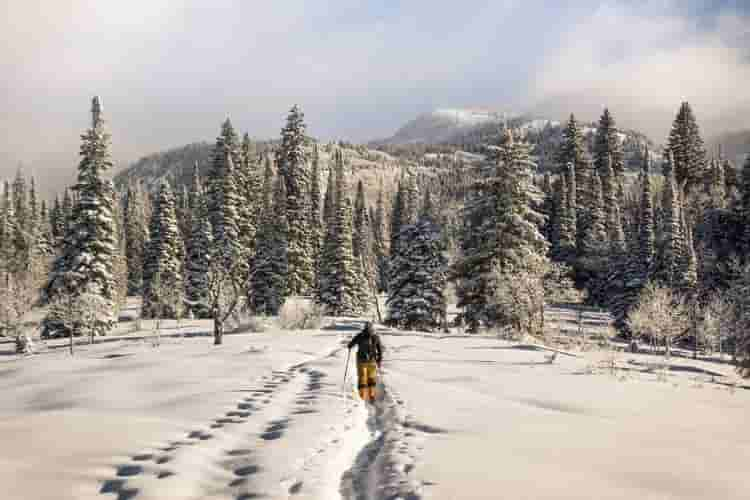
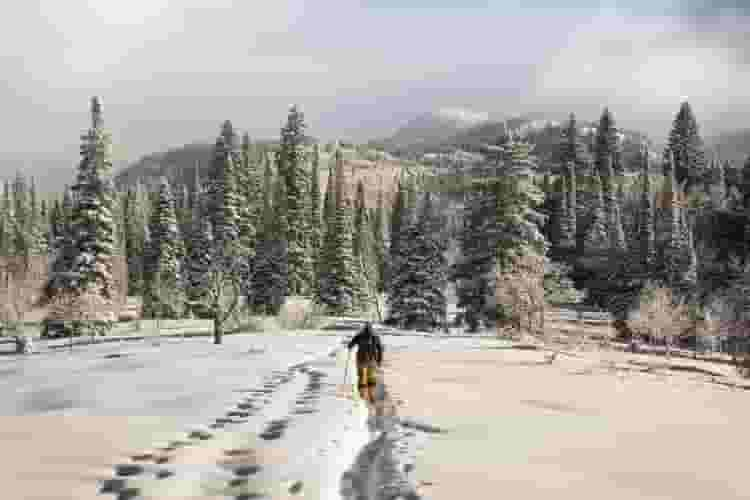
compress images

diff --git a/src/components/Categories/Fashion.js b/src/components/Categories/Fashion.js
@@ -31,7 +31,7 @@ class Fashion extends Component {
                                         {[1,0,2,1,3,0].map((i,x) => {
                                             return (
                                                 <div key={x}>
-                                                    <img height="350px" width="90%" src="http://oxfordfrc.com/wp-content/uploads/2017/01/Announcements.jpg" alt=""/>
+                                                    <img height="350px" width="90%" src="announcements.jpg" alt=""/>
                                                 </div>
                                             )
                                         })}
@@ -40,10 +40,10 @@ class Fashion extends Component {
                             </Grid.Column>
                             <Grid.Column width={6} className="right-banners">
                                 <Segment basic className="right-item">
-                                    <img height="170px" width="90%" src="http://oxfordfrc.com/wp-content/uploads/2017/01/Announcements.jpg" alt=""/>
+                                    <img height="170px" width="90%" src="announcements.jpg" alt=""/>
                                 </Segment>
                                 <Segment basic>
-                                    <img height="170px" width="90%" src="http://oxfordfrc.com/wp-content/uploads/2017/01/Announcements.jpg" alt=""/>
+                                    <img height="170px" width="90%" src="announcements.jpg" alt=""/>
                                 </Segment>
                             </Grid.Column>
                         </Grid.Row>

diff --git a/src/components/Categories/Travel.js b/src/components/Categories/Travel.js
@@ -31,7 +31,7 @@ class Travel extends Component {
                                         {[1,0,2,1,3,0].map((i,x) => {
                                             return (
                                                 <div key={x}>
-                                                    <img height="350px" width="90%" src="http://oxfordfrc.com/wp-content/uploads/2017/01/Announcements.jpg" alt=""/>
+                                                    <img height="350px" width="90%" src="announcements.jpg" alt=""/>
                                                 </div>
                                             )
                                         })}
@@ -40,10 +40,10 @@ class Travel extends Component {
                             </Grid.Column>
                             <Grid.Column width={6} className="right-banners">
                                 <Segment basic className="right-item">
-                                    <img height="170px" width="90%" src="http://oxfordfrc.com/wp-content/uploads/2017/01/Announcements.jpg" alt=""/>
+                                    <img height="170px" width="90%" src="announcements.jpg" alt=""/>
                                 </Segment>
                                 <Segment basic>
-                                    <img height="170px" width="90%" src="http://oxfordfrc.com/wp-content/uploads/2017/01/Announcements.jpg" alt=""/>
+                                    <img height="170px" width="90%" src="announcements.jpg" alt=""/>
                                 </Segment>
                             </Grid.Column>
                         </Grid.Row>

diff --git a/src/components/Categories/Food.js b/src/components/Categories/Food.js
@@ -31,7 +31,7 @@ class Food extends Component {
                                         {[1,0,2,1,3,0].map((i,x) => {
                                             return (
                                                 <div key={x}>
-                                                    <img height="350px" width="90%" src="http://oxfordfrc.com/wp-content/uploads/2017/01/Announcements.jpg" alt=""/>
+                                                    <img height="350px" width="90%" src="announcements.jpg" alt=""/>
                                                 </div>
                                             )
                                         })}
@@ -40,10 +40,10 @@ class Food extends Component {
                             </Grid.Column>
                             <Grid.Column width={6} className="right-banners">
                                 <Segment basic className="right-item">
-                                    <img height="170px" width="90%" src="http://oxfordfrc.com/wp-content/uploads/2017/01/Announcements.jpg" alt=""/>
+                                    <img height="170px" width="90%" src="announcements.jpg" alt=""/>
                                 </Segment>
                                 <Segment basic>
-                                    <img height="170px" width="90%" src="http://oxfordfrc.com/wp-content/uploads/2017/01/Announcements.jpg" alt=""/>
+                                    <img height="170px" width="90%" src="announcements.jpg" alt=""/>
                                 </Segment>
                             </Grid.Column>
                         </Grid.Row>

diff --git a/src/components/Categories/Tech.js b/src/components/Categories/Tech.js
@@ -31,7 +31,7 @@ class Tech extends Component {
                                         {[1,0,2,1,3,0].map((i,x) => {
                                             return (
                                                 <div key={x}>
-                                                    <img height="350px" width="90%" src="http://oxfordfrc.com/wp-content/uploads/2017/01/Announcements.jpg" alt=""/>
+                                                    <img height="350px" width="90%" src="announcements.jpg" alt=""/>
                                                 </div>
                                             )
                                         })}
@@ -40,10 +40,10 @@ class Tech extends Component {
                             </Grid.Column>
                             <Grid.Column width={6} className="right-banners">
                                 <Segment basic className="right-item">
-                                    <img height="170px" width="90%" src="http://oxfordfrc.com/wp-content/uploads/2017/01/Announcements.jpg" alt=""/>
+                                    <img height="170px" width="90%" src="announcements.jpg" alt=""/>
                                 </Segment>
                                 <Segment basic>
-                                    <img height="170px" width="90%" src="http://oxfordfrc.com/wp-content/uploads/2017/01/Announcements.jpg" alt=""/>
+                                    <img height="170px" width="90%" src="announcements.jpg" alt=""/>
                                 </Segment>
                             </Grid.Column>
                         </Grid.Row>

diff --git a/src/components/Temporary/Temporary.js b/src/components/Temporary/Temporary.js
@@ -7,7 +7,7 @@ class Temporary extends Component {
             return (
                 <div key="i" className="travel-item">
                     <div className="img">
-                        <img style={{width: "100%"}} src="https://i2.wp.com/the-shooting-star.com/wp-content/uploads/2018/03/IMG_5501.jpg?resize=840%2C560&ssl=1" alt=""/>
+                        <img style={{width: "100%"}} src="b_min.jpg" alt=""/>
                     </div>
                     <div className="post">
                         <p className="title">Japan Tourist Visa for Indians: Requirements and Tips</p>

diff --git a/src/helpers/card.js b/src/helpers/card.js
@@ -20,7 +20,7 @@ const myCard = (i) => {
                     </Label>
                     <Button size="tiny" primary>Follow</Button>
                 </Card.Content>
-                <Image src='https://i1.wp.com/www.eatstory.in/wp-content/uploads/2017/06/Kabul-Restaurant-03.jpg?w=1000' />
+                <Image src='kabul.jpg' />
                 <Card.Content>
                     <Card.Header as="a" href="/post">
                         Kabul Restaurant | Afghani Food in Delhi
